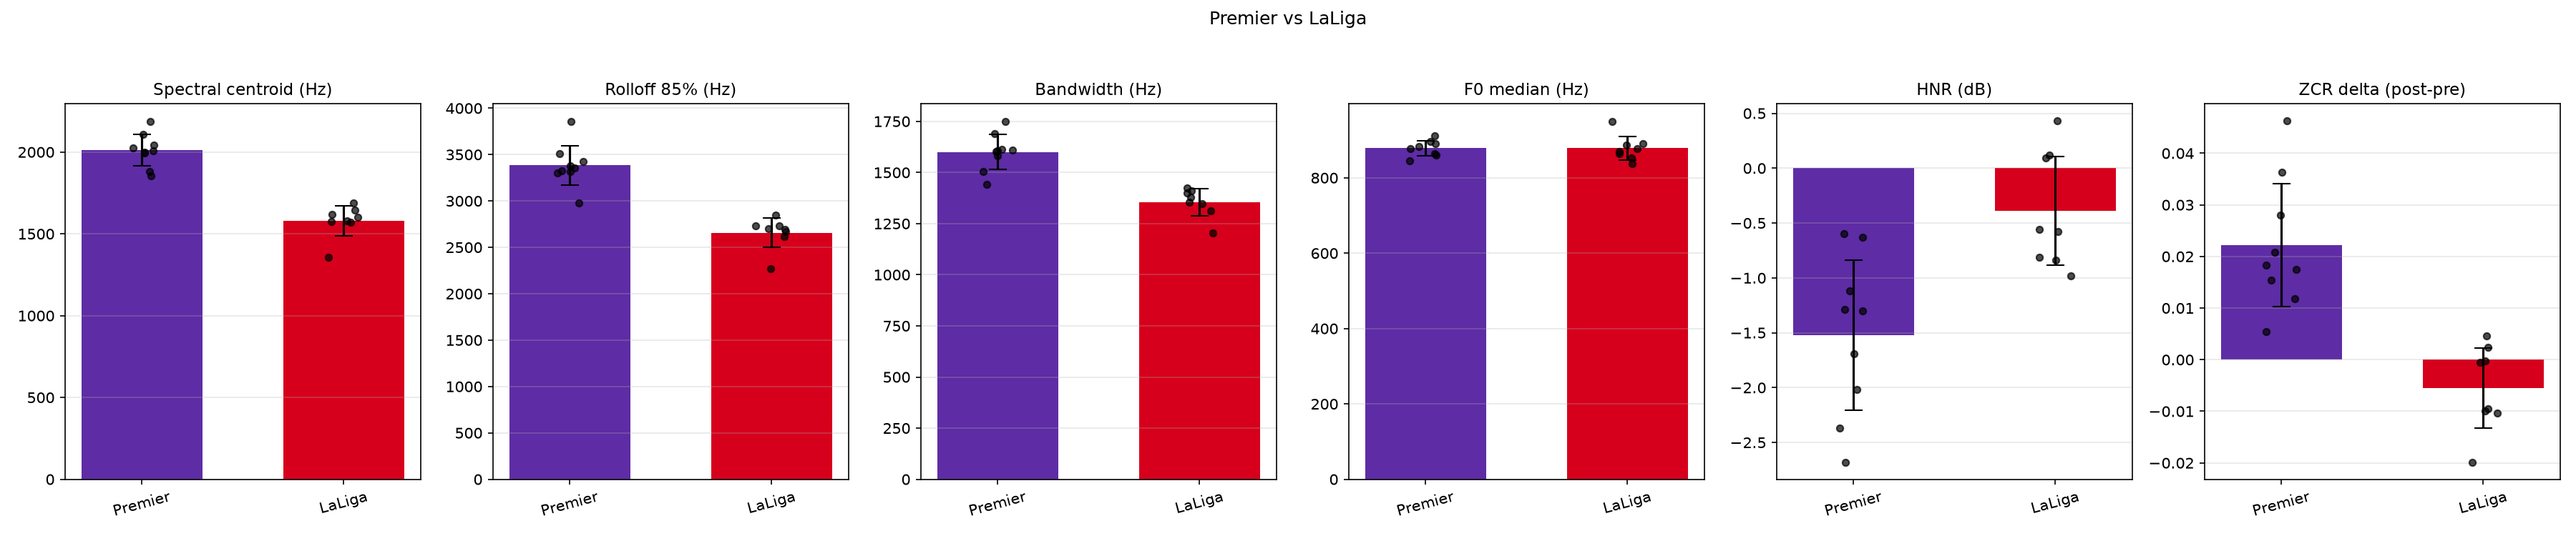
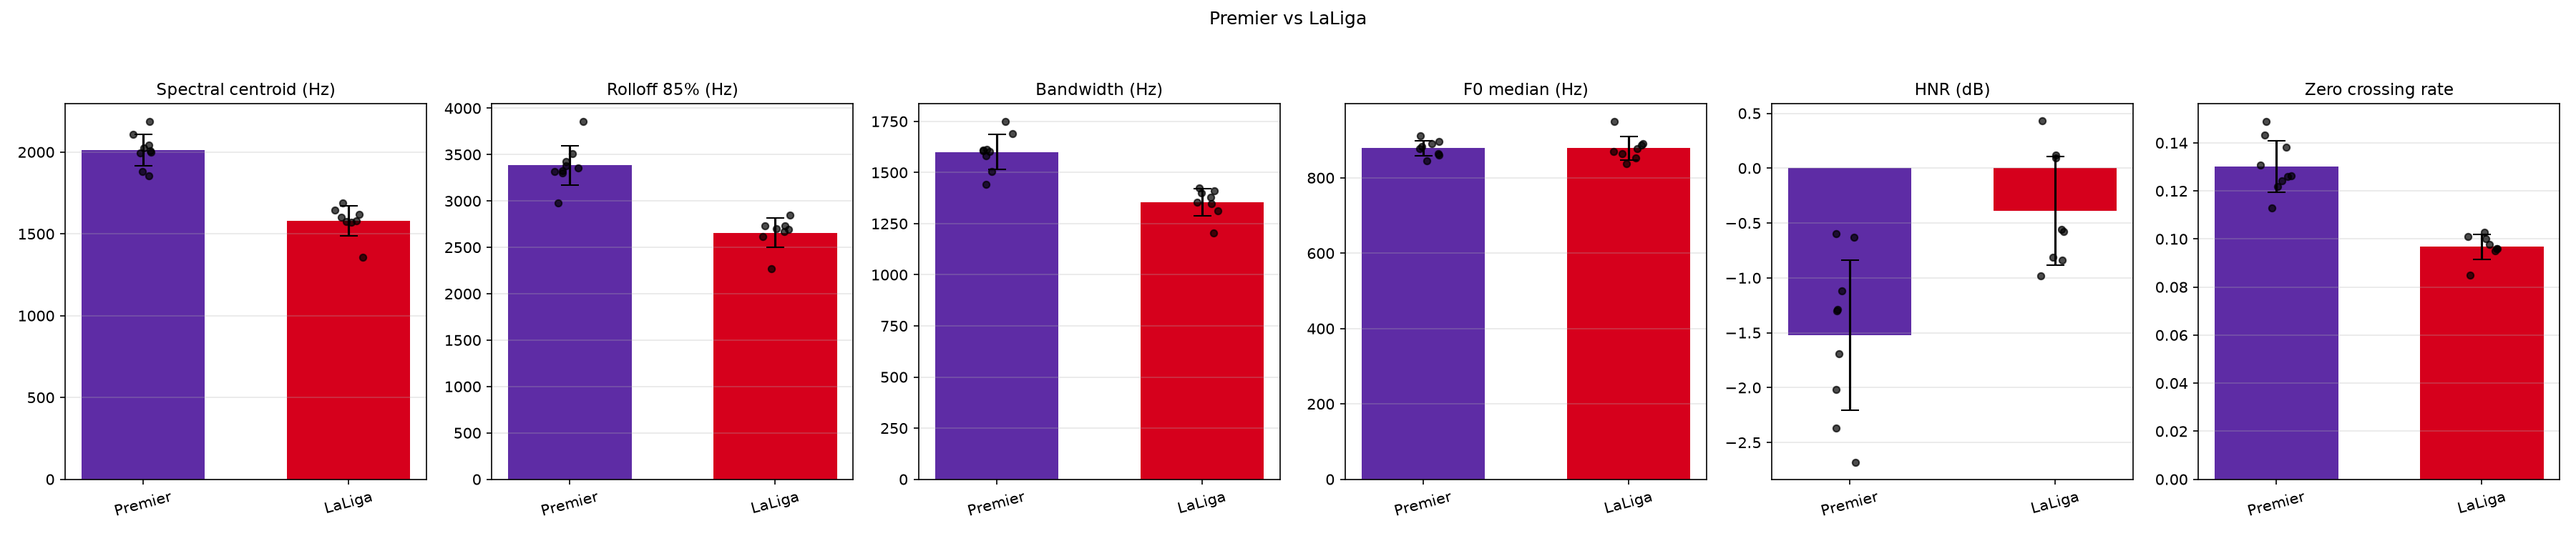
Remove zero_crossing_rate_pre/_delta, matching the increase-spectrum call
Same reasoning as the earlier increase-spectrum removal, just noticed
later on a re-read of the report: these existed to isolate "what the
goal changed" from preexisting ambient noise, by comparing the post-onset
window against a pre-onset baseline -- exactly the question this project
stopped asking once its interest narrowed to "what does the post-goal
crowd sound like". Not a measurement problem (zero_crossing_rate_delta
was actually significant, p=0.0001), just the same confound-vs-content
reclassification: the pre-onset audio isn't noise to remove, it's not
part of the question at all anymore.

Also: zero_crossing_rate_delta had become entirely redundant once
spectral_window_s and the zcr pre/post comparison window both landed on
2.0s (same coincidence noted in an earlier report revision, since
reverted) -- zero_crossing_rate (post) was arithmetically
reconstructable from pre+delta, adding no information beyond the
existing post-only field.

features.py: removed the two ClipFeatures fields, the pre/post
zcr_delta computation in analyze_clip(), the now-unused
_relative_window() helper, and the zcr_window_s parameter (nothing left
uses it). compare.py/cli.py drop them from the default metric/plot
lists; cli.py's bar chart swaps in the (still significant, p<0.0001)
plain zero_crossing_rate in that slot instead of leaving a gap.

Re-ran the full 17-clip pipeline; every other metric's numbers are
unchanged. reports/premier_vs_laliga.md's 4.5 section rewritten from a
[…]

diff --git a/src/goal_audio_analysis/features.py b/src/goal_audio_analysis/features.py
@@ -28,8 +28,6 @@ class ClipFeatures:
     spectral_bandwidth_hz: float
     spectral_flatness: float
     zero_crossing_rate: float
-    zero_crossing_rate_pre: Optional[float]
-    zero_crossing_rate_delta: Optional[float]
     f0_median_hz: Optional[float]
     f0_mean_hz: Optional[float]
     voiced_fraction: float
@@ -207,24 +205,10 @@ def formant_envelope_curve(
     return freqs, np.mean(responses, axis=0)
 
 
-def _relative_window(y: np.ndarray, sr: int, anchor_time: float, start_s: float, end_s: float) -> Optional[np.ndarray]:
-    """Slice out `[anchor_time + start_s, anchor_time + end_s)`, clamped to not start before 0.
-
-    Used for the pre/post-goal baseline windows behind the
-    zero_crossing_rate before/after delta.
-    """
-    w_s = max(0.0, anchor_time + start_s)
-    w_e = max(0.0, anchor_time + end_s)
-    if w_e - w_s < 0.1:
-        return None
-    return y[int(w_s * sr):int(w_e * sr)]
-
-
 def analyze_clip(
     path: str | Path,
     sr: int = 22050,
     spectral_window_s: float = 2.0,
-    zcr_window_s: float = 2.0,
     with_formants: bool = True,
 ) -> ClipFeatures:
     """Extract acoustic features from one audio clip.
@@ -235,18 +219,18 @@ def analyze_clip(
     `_load_onset_mark` for why.
 
     Everything here describes the post-onset reaction's spectral
-    *character* on its own terms -- the plain spectral_*/f0/f1/f2/hnr_db
-    fields, all computed over `[onset, onset + spectral_window_s)` -- plus
-    zero_crossing_rate_pre/_delta, which additionally compare that window
-    against `zcr_window_s` seconds immediately before the onset. An
-    earlier design also compared the *whole* post-onset spectrum against a
-    pre-onset baseline (increase_centroid_hz etc., an "increase spectrum")
-    to isolate the reaction from preexisting ambient audio (commentary, an
-    already-ongoing chant) -- dropped once the question of interest
-    shifted from "what did the goal add" to "what does the post-goal
-    crowd sound like", at which point that preexisting audio stopped being
-    a confound to remove and became part of what's being described. See
-    `reports/premier_vs_laliga.md` 4.5 section for the fuller history.
+    *character* on its own terms, computed over `[onset,
+    onset + spectral_window_s)`. Earlier designs also compared this
+    window against a pre-onset baseline -- a "before/after" zero-crossing
+    delta, and separately an "increase spectrum" difference for the
+    spectral_* fields (increase_centroid_hz etc.) -- both meant to isolate
+    the reaction from preexisting ambient audio (commentary, an
+    already-ongoing chant). Both were dropped once the question of
+    interest shifted from "what did the goal add" to "what does the
+    post-goal crowd sound like", at which point that preexisting audio
+    stopped being a confound to remove and became part of what's being
+    described. See `reports/premier_vs_laliga.md` 4.5 section for the
+    fuller history.
     """
     path = Path(path)
 
@@ -278,13 +262,6 @@ def analyze_clip(
     f0_voiced = f0[~np.isnan(f0)]
 
     zcr_post_val = float(np.mean(zcr))
-    y_pre = _relative_window(y, sr, onset_time, -zcr_window_s, 0.0)
-    y_post_for_delta = _relative_window(y, sr, onset_time, 0.0, zcr_window_s)
-    if y_pre is not None and len(y_pre) > 0 and y_post_for_delta is not None and len(y_post_for_delta) > 0:
-        zcr_pre_val = float(np.mean(librosa.feature.zero_crossing_rate(y=y_pre)[0]))
-        zcr_delta_val = float(np.mean(librosa.feature.zero_crossing_rate(y=y_post_for_delta)[0])) - zcr_pre_val
-    else:
-        zcr_pre_val = zcr_delta_val = None
 
     f1_median = f2_median = hnr_median = None
     if with_formants:
@@ -299,8 +276,6 @@ def analyze_clip(
         spectral_bandwidth_hz=round(float(np.mean(bandwidth)), 1),
         spectral_flatness=round(float(np.mean(flatness)), 5),
         zero_crossing_rate=round(zcr_post_val, 5),
-        zero_crossing_rate_pre=round(zcr_pre_val, 5) if zcr_pre_val is not None else None,
-        zero_crossing_rate_delta=round(zcr_delta_val, 5) if zcr_delta_val is not None else None,
         f0_median_hz=round(float(np.median(f0_voiced)), 1) if len(f0_voiced) else None,
         f0_mean_hz=round(float(np.mean(f0_voiced)), 1) if len(f0_voiced) else None,
         voiced_fraction=round(float(np.mean(~np.isnan(f0))), 3),

diff --git a/src/goal_audio_analysis/cli.py b/src/goal_audio_analysis/cli.py
@@ -24,7 +24,7 @@ DEFAULT_BAR_METRICS = [
     ("spectral_bandwidth_hz", "Bandwidth (Hz)"),
     ("f0_median_hz", "F0 median (Hz)"),
     ("hnr_db", "HNR (dB)"),
-    ("zero_crossing_rate_delta", "ZCR delta (post-pre)"),
+    ("zero_crossing_rate", "Zero crossing rate"),
 ]
 
 

diff --git a/src/goal_audio_analysis/compare.py b/src/goal_audio_analysis/compare.py
@@ -18,8 +18,6 @@ DEFAULT_METRICS = [
     "spectral_bandwidth_hz",
     "spectral_flatness",
     "zero_crossing_rate",
-    "zero_crossing_rate_pre",
-    "zero_crossing_rate_delta",
     "f0_median_hz",
     "f1_median_hz",
     "f2_median_hz",
